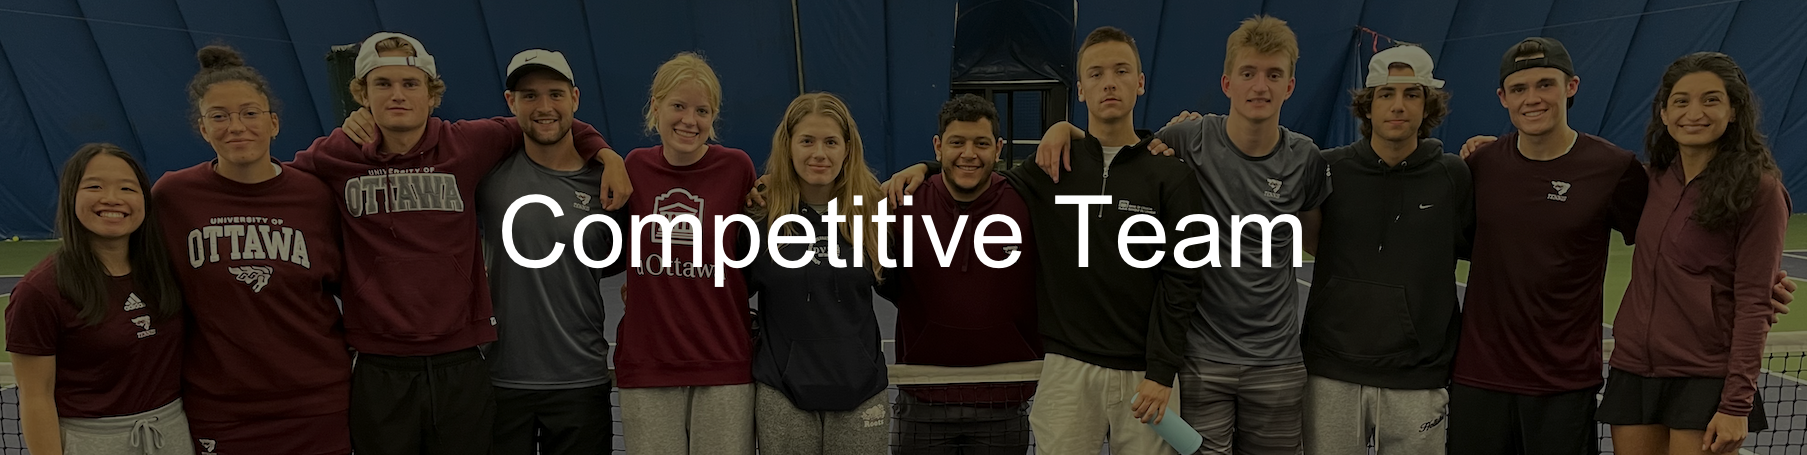
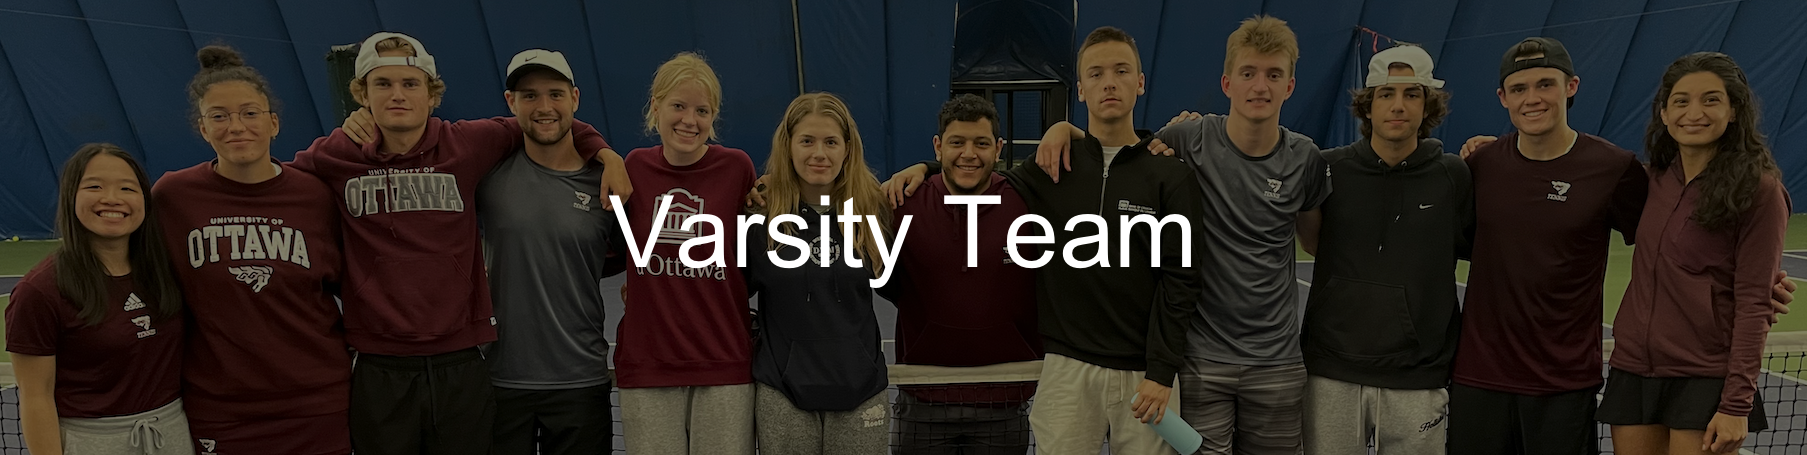
Update file name and font size

Changed region(s): [[0.2789, 0.4308, 0.7438, 0.6462]]

diff --git a/src/fr/varsityFR.html b/src/fr/varsityFR.html
@@ -24,7 +24,7 @@
 				<img src="../images/logoV2.jpg" width="30" height="30" alt="">
 			</a>
 			<a href="indexFR.html">Accueil</a>
-			<a href="rosterFR.html" class="active">Équipe interuniversitaire</a>
+			<a href="varsityFR.html" class="active">Équipe interuniversitaire</a>
 			<a href="recreationalFR.html">Équipe récréative</a>
 			<a href="coachesFR.html">Entraîneurs</a>
 			<a href="execFR.html">Comité exécutif</a>
@@ -32,10 +32,10 @@
 			<a href="sponsorsFR.html">Sponsors</a>
 			<a href="outreachFR.html">Sensibilisation</a>
 			<a href="FAQFR.html">FAQ</a>
-			<a style="float:right;" href="rosterFR.html">
+			<a style="float:right;" href="varsityFR.html">
 				<img src="../images/fr.png" width="25" height="25" alt="">
 			</a>
-			<a style="float:right;" href="../roster.html">
+			<a style="float:right;" href="../varsity.html">
 				<img src="../images/en.png" width="25" height="25" alt="">
 			</a>
 			<a href="javascript:void(0);" class="nav-icon" onclick="navigationBar()">

diff --git a/src/varsity.html b/src/varsity.html
@@ -24,7 +24,7 @@
 				<img src="images/logoV2.jpg" width="30" height="30" alt="">
 			</a>
 			<a href="index.html">Home</a>
-			<a href="roster.html" class="active">Varsity Team</a>
+			<a href="varsity.html" class="active">Varsity Team</a>
 			<a href="recreational.html">Recreational Team</a>
 			<a href="coaches.html">Coaches</a>
 			<a href="exec.html">Executive Team</a>
@@ -32,10 +32,10 @@
 			<a href="sponsors.html">Sponsors</a>
 			<a href="outreach.html">Outreach</a>
 			<a href="FAQ.html">FAQ</a>
-			<a style="float:right;" href="./fr/rosterFR.html">
+			<a style="float:right;" href="./fr/varsityFR.html">
 				<img src="images/fr.png" width="25" height="25" alt="">
 			</a>
-			<a style="float:right;" href="./roster.html">
+			<a style="float:right;" href="./varsity.html">
 				<img src="images/en.png" width="25" height="25" alt="">
 			</a>
 			<a href="javascript:void(0);" class="nav-icon" onclick="navigationBar()">

diff --git a/src/css/style.css b/src/css/style.css
@@ -1,3 +1,9 @@
+* {
+    font-family: Roboto, sans-serif;
+}
+
+
+
 /* Set a fixed height for the role section */
 .col-md-3 h5 {
     height: 10px !important;
@@ -18,6 +24,7 @@ body {
     overflow-x: hidden;
     /* Hide scrollbars */
     background-color: #f9f9f9;
+
 }
 
 .text_center {
@@ -125,7 +132,7 @@ ol>li:before {
 
 p {
     text-align: justify;
-    font-size: 16px;
+    font-size: 18px;
 }
 
 a {
@@ -145,6 +152,7 @@ button:hover {
     margin-left: 4%;
     margin-right: 4%;
     margin-bottom: 3%;
+    padding: 10px
 }
 
 .iframe {

diff --git a/src/fr/recreationalFR.html b/src/fr/recreationalFR.html
@@ -24,7 +24,7 @@
                 <img src="../images/logoV2.jpg" width="30" height="30" alt="">
             </a>
             <a href="indexFR.html">Accueil</a>
-            <a href="rosterFR.html">Équipe interuniversitaire</a>
+            <a href="varsityFR.html">Équipe interuniversitaire</a>
             <a href="recreationalFR.html" class="active">Équipe récréative</a>
             <a href="coachesFR.html">Entraîneurs</a>
             <a href="execFR.html">Comité exécutif</a>

diff --git a/src/recreational.html b/src/recreational.html
@@ -25,7 +25,7 @@
                 <img src="images/logoV2.jpg" width="30" height="30" alt="">
             </a>
             <a href="index.html">Home</a>
-            <a href="roster.html">Varsity Team</a>
+            <a href="varsity.html">Varsity Team</a>
             <a href="recreational.html" class="active">Recreational Team</a>
             <a href="coaches.html">Coaches</a>
             <a href="exec.html">Executive Team</a>

diff --git a/src/fr/coachesFR.html b/src/fr/coachesFR.html
@@ -25,7 +25,7 @@
 				<img src="../images/logoV2.jpg" width="30" height="30" alt="">
 			</a>
 			<a href="indexFR.html">Accueil</a>
-			<a href="rosterFR.html">Équipe interuniversitaire</a>
+			<a href="varsityFR.html">Équipe interuniversitaire</a>
 			<a href="recreationalFR.html">Équipe récréative</a>
 			<a href="coachesFR.html" class="active">Entraîneurs</a>
 			<a href="execFR.html">Comité exécutif</a>

diff --git a/src/fr/execFR.html b/src/fr/execFR.html
@@ -24,7 +24,7 @@
 				<img src="../images/logoV2.jpg" width="30" height="30" alt="">
 			</a>
 			<a href="indexFR.html">Accueil</a>
-			<a href="rosterFR.html">Équipe interuniversitaire</a>
+			<a href="varsityFR.html">Équipe interuniversitaire</a>
 			<a href="recreationalFR.html">Équipe récréative</a>
 			<a href="coachesFR.html">Entraîneurs</a>
 			<a href="execFR.html" class="active">Comité exécutif</a>

diff --git a/src/fr/indexFR.html b/src/fr/indexFR.html
@@ -26,7 +26,7 @@
 				<img src="../images/logoV2.jpg" width="30" height="30" alt="">
 			</a>
 			<a href="indexFR.html" class="active">Accueil</a>
-			<a href="rosterFR.html">Équipe interuniversitaire</a>
+			<a href="varsityFR.html">Équipe interuniversitaire</a>
 			<a href="recreationalFR.html">Équipe récréative</a>
 			<a href="coachesFR.html">Entraîneurs</a>
 			<a href="execFR.html">Comité exécutif</a>

diff --git a/src/fr/FAQFR.html b/src/fr/FAQFR.html
@@ -24,7 +24,7 @@
 				<img src="../images/logoV2.jpg" width="30" height="30" alt="">
 			</a>
 			<a href="indexFR.html">Accueil</a>
-			<a href="rosterFR.html">Équipe interuniversitaire</a>
+			<a href="varsityFR.html">Équipe interuniversitaire</a>
 			<a href="recreationalFR.html">Équipe récréative</a>
 			<a href="coachesFR.html">Entraîneurs</a>
 			<a href="execFR.html">Comité exécutif</a>

diff --git a/src/fr/documentsFR.html b/src/fr/documentsFR.html
@@ -24,7 +24,7 @@
 				<img src="../images/logoV2.jpg" width="30" height="30" alt="">
 			</a>
 			<a href="indexFR.html">Accueil</a>
-			<a href="rosterFR.html">Équipe interuniversitaire</a>
+			<a href="varsityFR.html">Équipe interuniversitaire</a>
 			<a href="recreationalFR.html">Équipe récréative</a>
 			<a href="coachesFR.html">Entraîneurs</a>
 			<a href="execFR.html">Comité exécutif</a>

diff --git a/src/fr/outreachFR.html b/src/fr/outreachFR.html
@@ -24,7 +24,7 @@
 				<img src="../images/logoV2.jpg" width="30" height="30" alt="">
 			</a>
 			<a href="indexFR.html">Accueil</a>
-			<a href="rosterFR.html">Équipe interuniversitaire</a>
+			<a href="varsityFR.html">Équipe interuniversitaire</a>
 			<a href="recreationalFR.html">Équipe récréative</a>
 			<a href="coachesFR.html">Entraîneurs</a>
 			<a href="execFR.html">Comité exécutif</a>

diff --git a/src/fr/sponsorsFR.html b/src/fr/sponsorsFR.html
@@ -24,7 +24,7 @@
 				<img src="../images/logoV2.jpg" width="30" height="30" alt="">
 			</a>
 			<a href="indexFR.html">Accueil</a>
-			<a href="rosterFR.html">Équipe interuniversitaire</a>
+			<a href="varsityFR.html">Équipe interuniversitaire</a>
 			<a href="recreationalFR.html">Équipe récréative</a>
 			<a href="coachesFR.html">Entraîneurs</a>
 			<a href="execFR.html">Comité exécutif</a>
